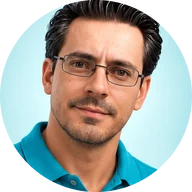
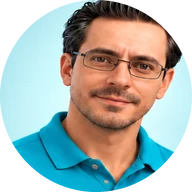
Turma: Andi novo (proporção melhor) e pé do Saquinho suavizado (o PNG original vem cortado)
Claude-Session: https://claude.ai/code/session_01J4Z1XWxze9kpV6e58orTjR

diff --git a/config.js b/config.js
@@ -17,7 +17,7 @@ window.CRM_CONFIG = {
   // (topo, guia do dia); cada tela tem o seu especialista; os de linha de produto saem pela linha do FKN; o Andi
   // recebe no login. turma.js explica. Trocar um desenho: mesmo nome de arquivo e subir a `versao`.
   turma: {
-    pasta: 'assets/turma/', versao: '1',
+    pasta: 'assets/turma/', versao: '2',
     principal: 'clean', anfitriao: 'andi',
     boasVindas: 'Olá! Eu sou o Andi, assistente virtual da OneClean. Entre com o seu e-mail e a sua senha para começar.',
     mascotes: {

diff --git a/CLAUDE.md b/CLAUDE.md
@@ -1231,10 +1231,11 @@ e círculo); recortados sem fundo com o rembg (isnet) em `assets/turma/<id>.webp
   US$ 10/mês no console da Anthropic: com o uso da equipe, rever). Custo do mês aparece para o admin no rodapé da conversa.
 - **Não testado ainda com a API de verdade** (daqui não há login de usuário): a 1ª pergunta real é do Anderson. Se uma
   ferramenta falhar, a IA diz "a consulta falhou" e o motivo fica no log da função (`get_logs` → edge-function).
-- **Faltam os arquivos** (vieram só como imagem na conversa): **Andi novo** (proporção melhor; substituir `andi`),
-  **Auditoria** (novo: conferência CRM × FKN, Duplicados, Fiscal → `telas['estoque:conferencia']`, `fiscal`) e o
-  **Saquinho** (o do zip veio cortado embaixo). Mandar como arquivo; recortar com `scratchpad/mascotes/scripts/final.py`
-  (ou refazer: rembg isnet + maior componente + círculo da prancha) e subir a `versao` do config.
+- **Desenhos:** Andi novo (proporção melhor) trocado em 17/10 à noite (`versao` 2). O **Saquinho** do arquivo original vem
+  cortado embaixo (PNG truncado na linha 1088 de 1254; o 2º zip trouxe o mesmo arquivo, mesmo tamanho): por ora o pé
+  tem um degradê; precisa o PNG inteiro (gerar/baixar de novo). Falta o **Auditoria** como arquivo (veio só como imagem):
+  vai em `telas['estoque:conferencia']` e `fiscal`. Recortar com `scratchpad/mascotes/scripts/final.py` (rembg isnet +
+  maior componente + círculo da prancha; o nome sai do arquivo "NN-Nome.png") e subir a `versao` do config.
 - **Próximo pedido do Anderson (17/10):** "uma skill de um comprador sênior… administrando a parte de compras, dando
   palpite, sugerindo compras inteligentes, relação com os principais concorrentes, fornecedor…". O começo já está na
   persona de Compras + `reposicao`/`giro`; falta: prazo e mínimo por fornecedor, histórico de preço de compra
